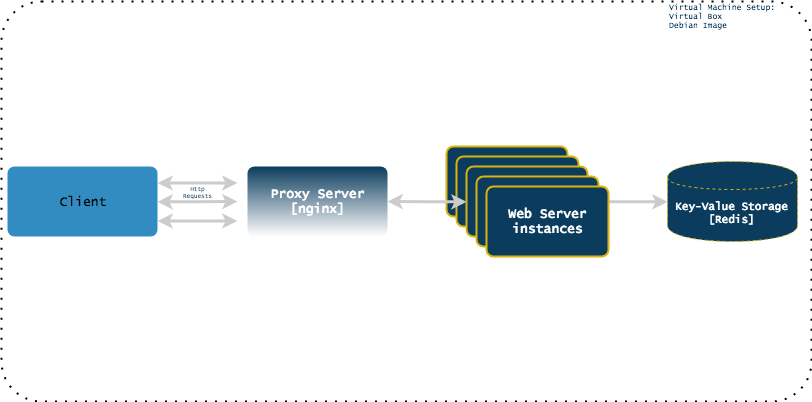
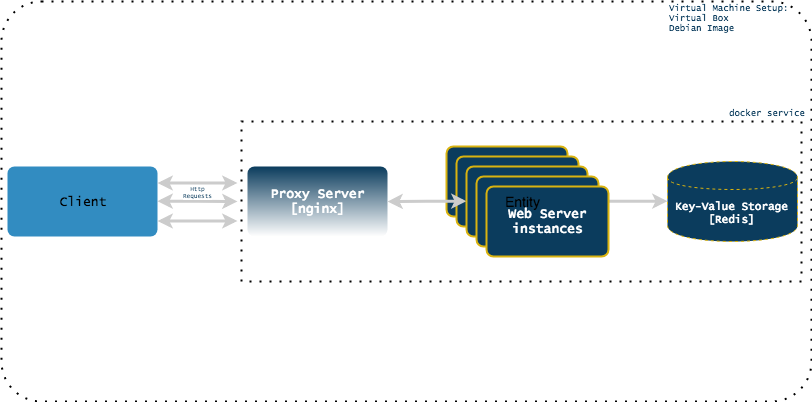
updated documentation

diff --git a/README.md b/README.md
@@ -7,7 +7,12 @@ service and the database are run as  docker containers.
 
 ![Design Overview](./load_balancer.png)
 
-The proxy server is configured to listen for traffic on port 80
+The proxy server is configured to listen for traffic on port 80 and in
+this case the only resource available through the proxy is an api that
+calculates the factorial of a number -which is a cpu bound operation
+and generates significant processing workload for a large number. 
+
+
 ```
 server{
 	listen 80;
@@ -17,5 +22,14 @@ server{
 }
 ```
 
+The HTTP server is a simple server that takes takes a value from the
+database (a key-value storage) and computes the factorial of that
+number.
+
 To run a single instance of the service:
 `sudo docker-compose up`
+
+To scale the service the `yml` file in stage2 folder is run using a
+scaling option and the proxy server's load balancing feature will
+allocate resources in the default round-robin fashion.
+`sudo docker-compose up --scale frontend=3`
